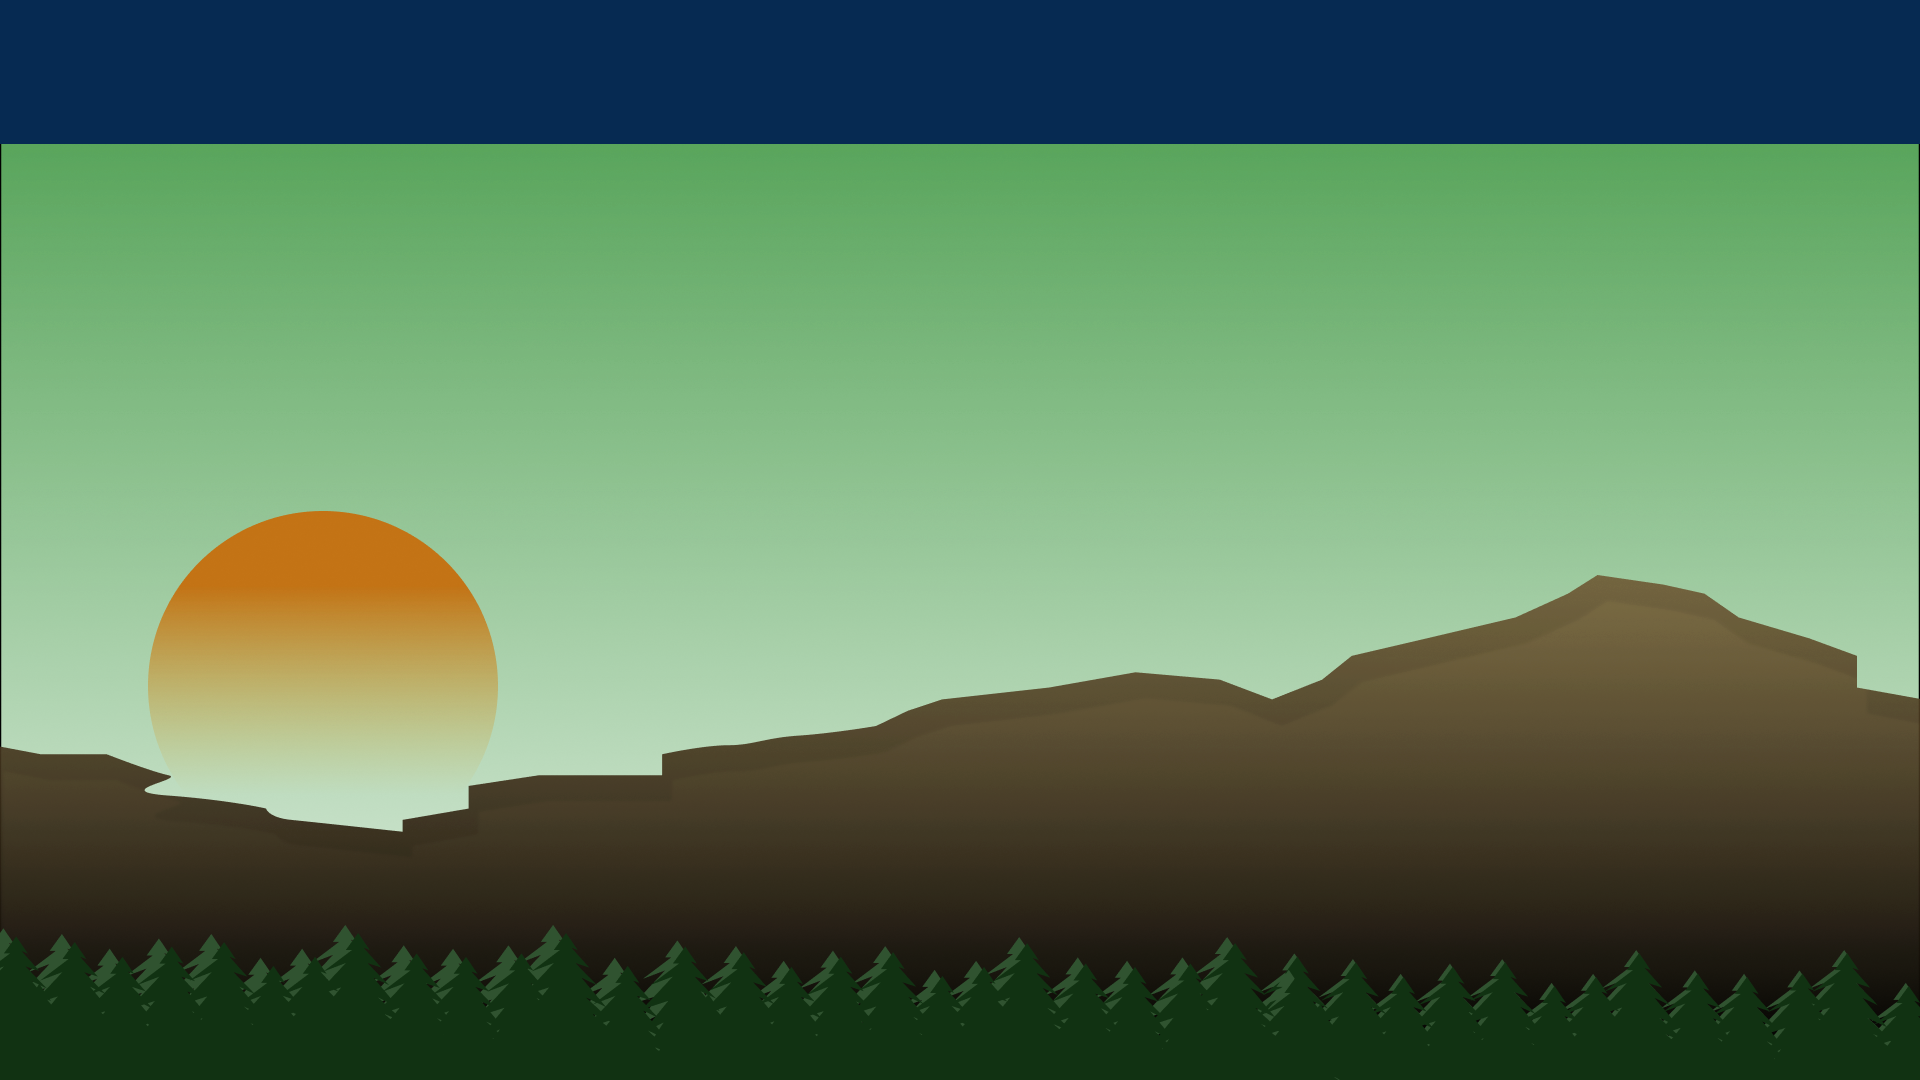
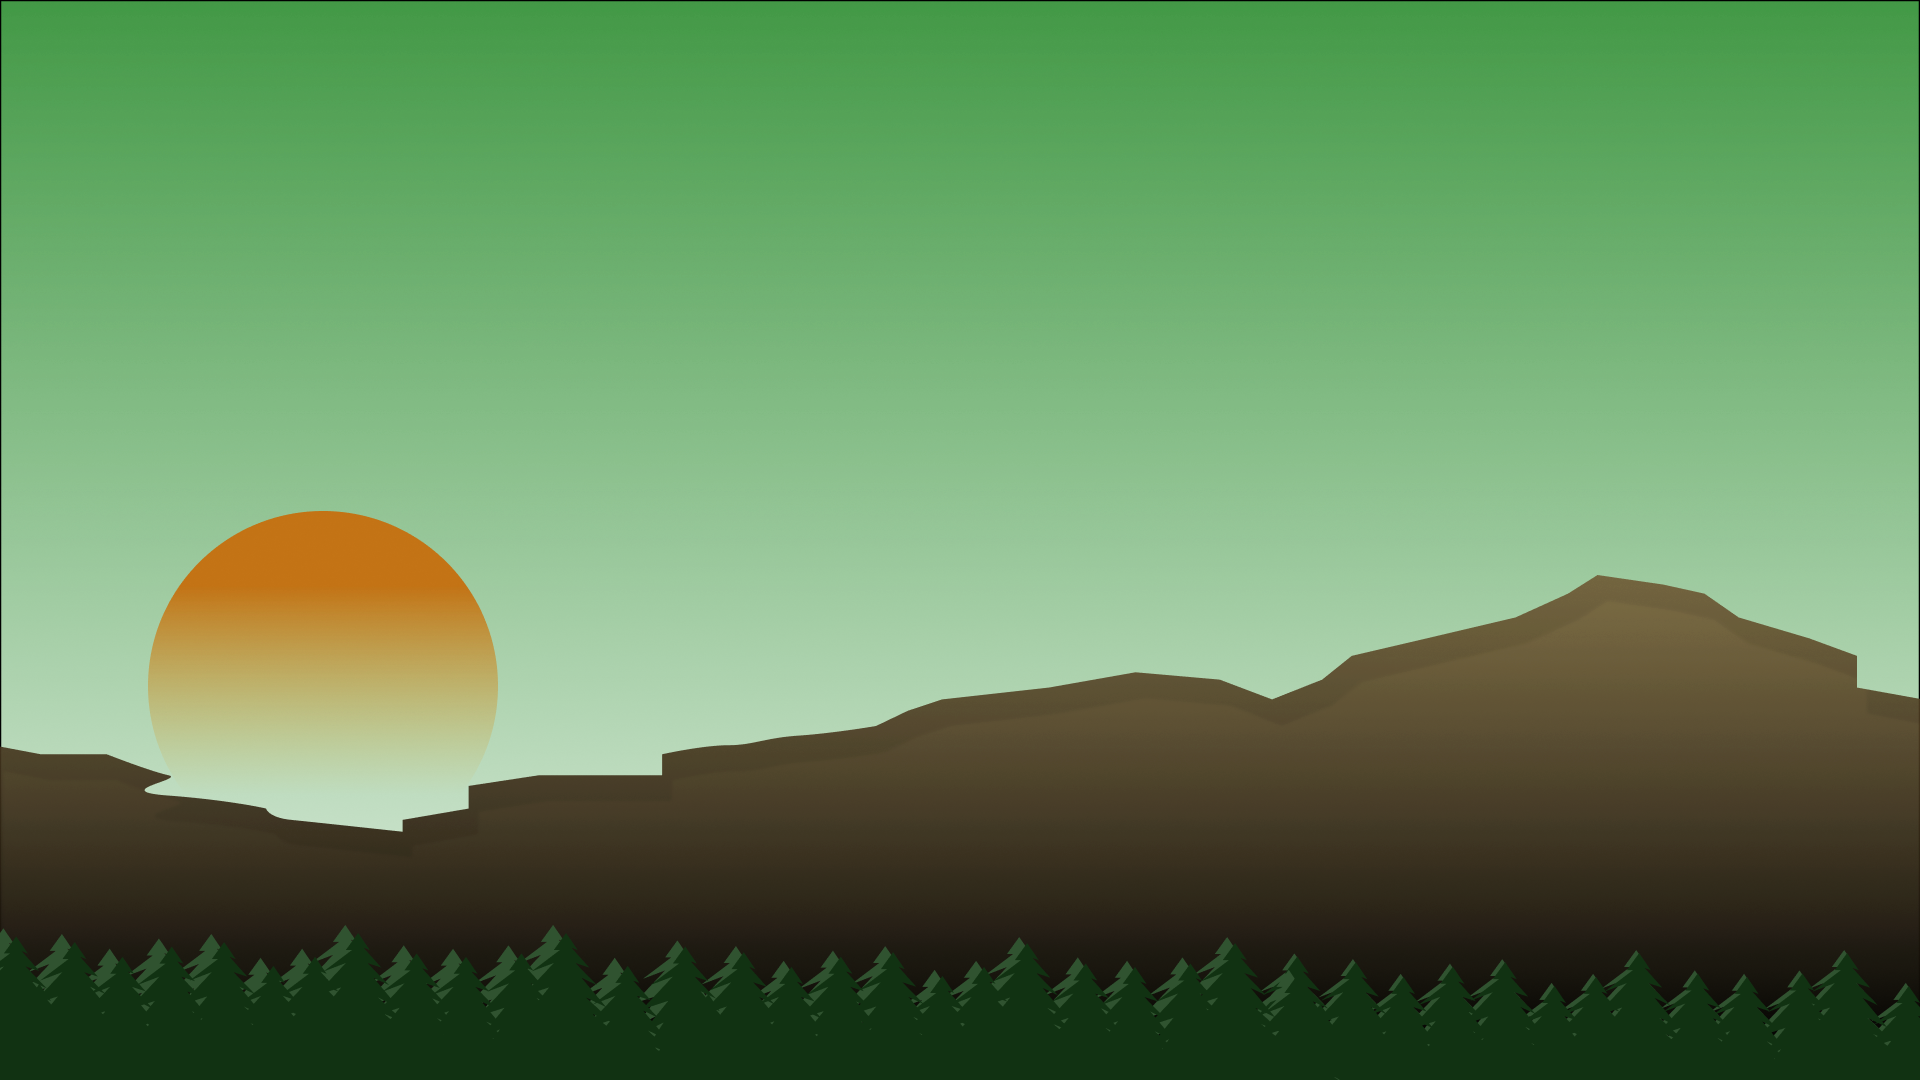
optimized a lot / added NavBar

Changed region(s): [[0.0, 0.0, 1.0, 0.1528]]

diff --git a/src/Components/Navbar.js b/src/Components/Navbar.js
@@ -1,0 +1,41 @@
+import React, { useState } from 'react';
+import { View, Text, TouchableOpacity } from 'react-native';
+import { useNavigation } from '@react-navigation/native';
+import NavbarStyles from './Styles/NavbarStyles';
+
+const Navbar = () => {
+    const [isMenuOpen, setMenuOpen] = useState(false);
+    const navigation = useNavigation();
+
+    const toggleMenu = () => {
+        setMenuOpen(!isMenuOpen);
+    };
+
+    const navigateToPage = (page) => {
+        navigation.navigate(page);
+        setMenuOpen(false);
+    };
+
+    return (
+        <View style={NavbarStyles.navbar}>
+            <TouchableOpacity onPress={toggleMenu}>
+                <Text style={NavbarStyles.menuIcon}>☰</Text>
+            </TouchableOpacity>
+            {isMenuOpen && (
+                <View style={NavbarStyles.menuContainer}>
+                    <TouchableOpacity onPress={() => navigateToPage('Home')}>
+                        <Text style={NavbarStyles.menuItem}>Home</Text>
+                    </TouchableOpacity>
+                    <TouchableOpacity onPress={() => navigateToPage('Track')}>
+                        <Text style={NavbarStyles.menuItem}>Track</Text>
+                    </TouchableOpacity>
+                    <TouchableOpacity onPress={() => navigateToPage('News')}>
+                        <Text style={NavbarStyles.menuItem}>News</Text>
+                    </TouchableOpacity>
+                </View>
+            )}
+        </View>
+    );
+};
+
+export default Navbar;

diff --git a/src/Components/Styles/NavbarStyles.js b/src/Components/Styles/NavbarStyles.js
@@ -1,0 +1,45 @@
+// NavbarStyles.js
+import { StyleSheet } from 'react-native';
+
+const styles = StyleSheet.create({
+    navbar: {
+        backgroundColor: '#062a52',
+        position: 'absolute',
+        top: 0,
+        left: 0, // Position at the left
+        width: '100%', // Take the full width of the screen
+        height: 80, // Adjust height for a thicker navbar
+        flexDirection: 'row',
+        alignItems: 'center',
+        justifyContent: 'space-between',
+        padding: 20,
+        zIndex: 1,
+    },
+    menuIcon: {
+        fontSize: 40,
+        color: 'white',
+        textShadowColor: 'black',
+        textShadowOffset: { width: 1, height: 1 },
+        textShadowRadius: 2,
+    },
+    menuContainer: {
+        backgroundColor: '#062a52',
+        position: 'absolute',
+        top: 80,
+        left: 15,
+        width: 100,
+        padding: 10,
+        zIndex: 1,
+    },
+    menuItem: {
+        color: 'white',
+        fontSize: 20,
+        marginBottom: 10,
+        textAlign: 'center',
+        textShadowColor: 'black',
+        textShadowOffset: { width: 1, height: 1 },
+        textShadowRadius: 1,
+    },
+});
+
+export default styles;

diff --git a/src/Components/pages/TitleScreen.js b/src/Components/pages/TitleScreen.js
@@ -2,6 +2,7 @@ import React, { useState, useEffect } from "react";
 import { StyleSheet, Text, View, Image, Animated, Easing } from "react-native";
 import styles from "../Styles/TitleScreenStyles";
 import Footer from '../Footer';
+import Navbar from '../Navbar';
 
 const TitleScreen = () => {
     const [scaleValue] = useState(new Animated.Value(1));
@@ -60,6 +61,7 @@ const TitleScreen = () => {
 
     return (
         <View style={styles.container}>
+            <Navbar />
             <View style={styles.titleScreen}>
                 <Image
                     source={require("../../../assets/ecoTrackTitleScreen.png")}

diff --git a/src/Components/Styles/TitleScreenStyles.js b/src/Components/Styles/TitleScreenStyles.js
@@ -20,9 +20,10 @@ const styles = StyleSheet.create({
         height: "100%",
     },
     logo: {
+        flex: 1,
         position: "absolute",
-        width: "30%", // Adjusted the percentage to make the size responsive (bc chad/rebecca said responsive is cool)
-        aspectRatio: 1, // Maintain the aspect ratio for responsive scaling (bc chad/rebecca said responsive is cool)
+        width: "30%", // Adjusted the percentage to make the size responsive
+        aspectRatio: 1, // Maintain the aspect ratio for responsive scaling
         resizeMode: "contain",
     },
 });

diff --git a/src/Components/Styles/FooterStyles.js b/src/Components/Styles/FooterStyles.js
@@ -12,6 +12,9 @@ const styles = StyleSheet.create({
     footerText: {
         color: "#fff",
         fontSize: 12,
+        textShadowColor: 'black',
+        textShadowOffset: { width: 1, height: 1 },
+        textShadowRadius: 1,
     },
 });
 
